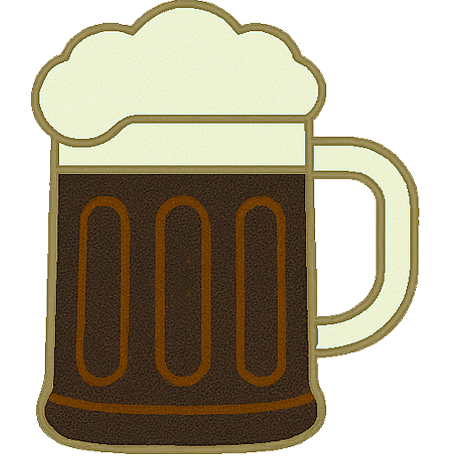
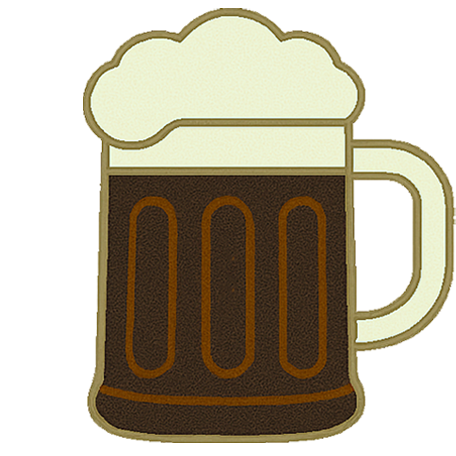
feat: add more skins and centered the old ones

diff --git a/src/logic/gameData.js b/src/logic/gameData.js
@@ -4,6 +4,11 @@ import skinAmbre from '@/assets/BeerClicker/skins/ambre.png'
 import skinRuby from '@/assets/BeerClicker/skins/ruby.png'
 import skinRadioactive from '@/assets/BeerClicker/skins/radioactive.png'
 import skinCosmic from '@/assets/BeerClicker/skins/cosmic.png'
+import skinGold from '@/assets/BeerClicker/skins/gold.png'
+import skinEmerald from '@/assets/BeerClicker/skins/emerald.png'
+import skinSapphire from '@/assets/BeerClicker/skins/sapphire.png'
+import skinObsidian from '@/assets/BeerClicker/skins/obsidian.png'
+import skinRainbow from '@/assets/BeerClicker/skins/rainbow.png'
 
 // Auto Perk Images
 import startupImg from '@/assets/BeerClicker/startup.png'
@@ -77,6 +82,41 @@ export const skins = [
     className: 'skin-cosmic',
     price: 100000000,
     image: skinCosmic,
+  },
+  {
+    id: 'emerald',
+    name: 'Émeraude',
+    className: 'skin-emerald',
+    price: 500000000,
+    image: skinEmerald,
+  },
+  {
+    id: 'sapphire',
+    name: 'Saphir',
+    className: 'skin-sapphire',
+    price: 1000000000,
+    image: skinSapphire,
+  },
+  {
+    id: 'obsidian',
+    name: 'Obsidienne',
+    className: 'skin-obsidian',
+    price: 5000000000,
+    image: skinObsidian,
+  },
+  {
+    id: 'gold',
+    name: 'Or',
+    className: 'skin-gold',
+    price: 10000000000,
+    image: skinGold,
+  },
+  {
+    id: 'rainbow',
+    name: 'Arc-en-ciel',
+    className: 'skin-rainbow',
+    price: 50000000000,
+    image: skinRainbow,
   },
 ]
 
